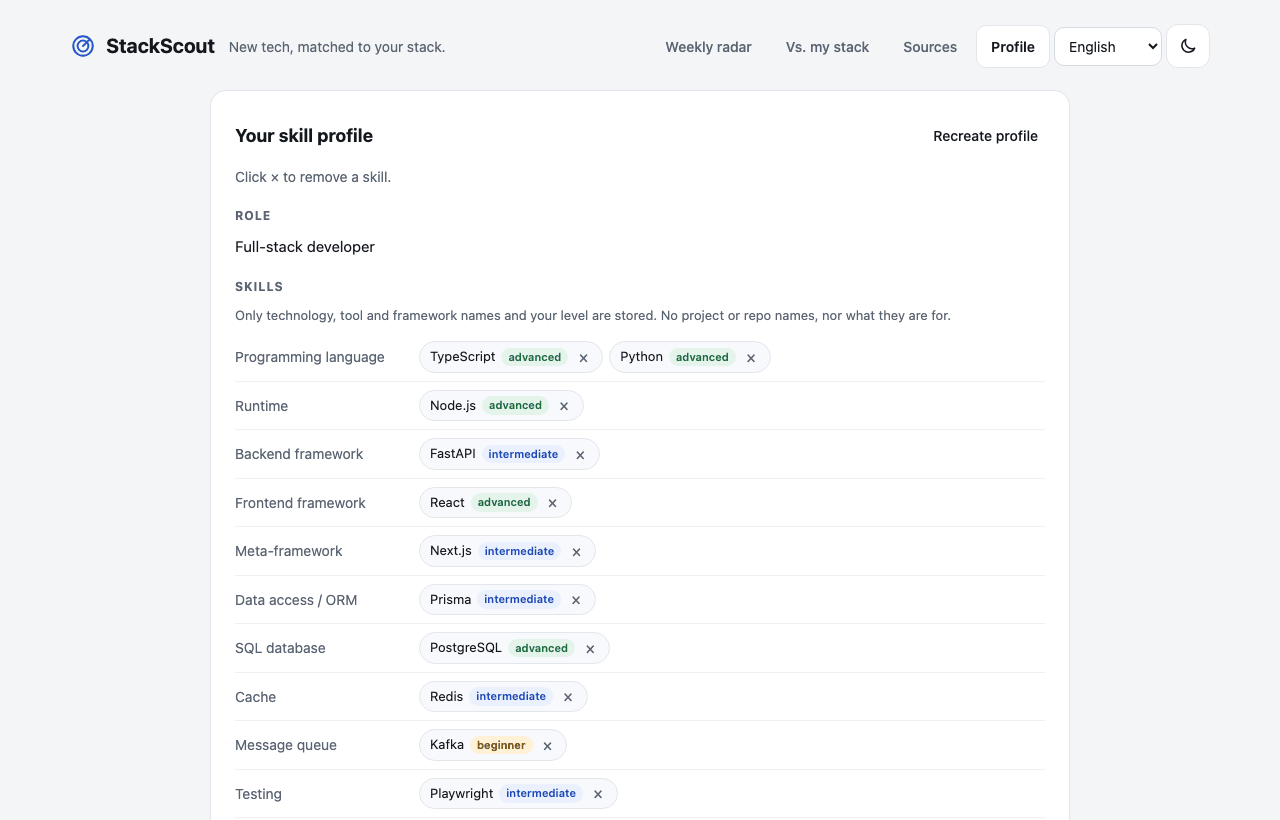
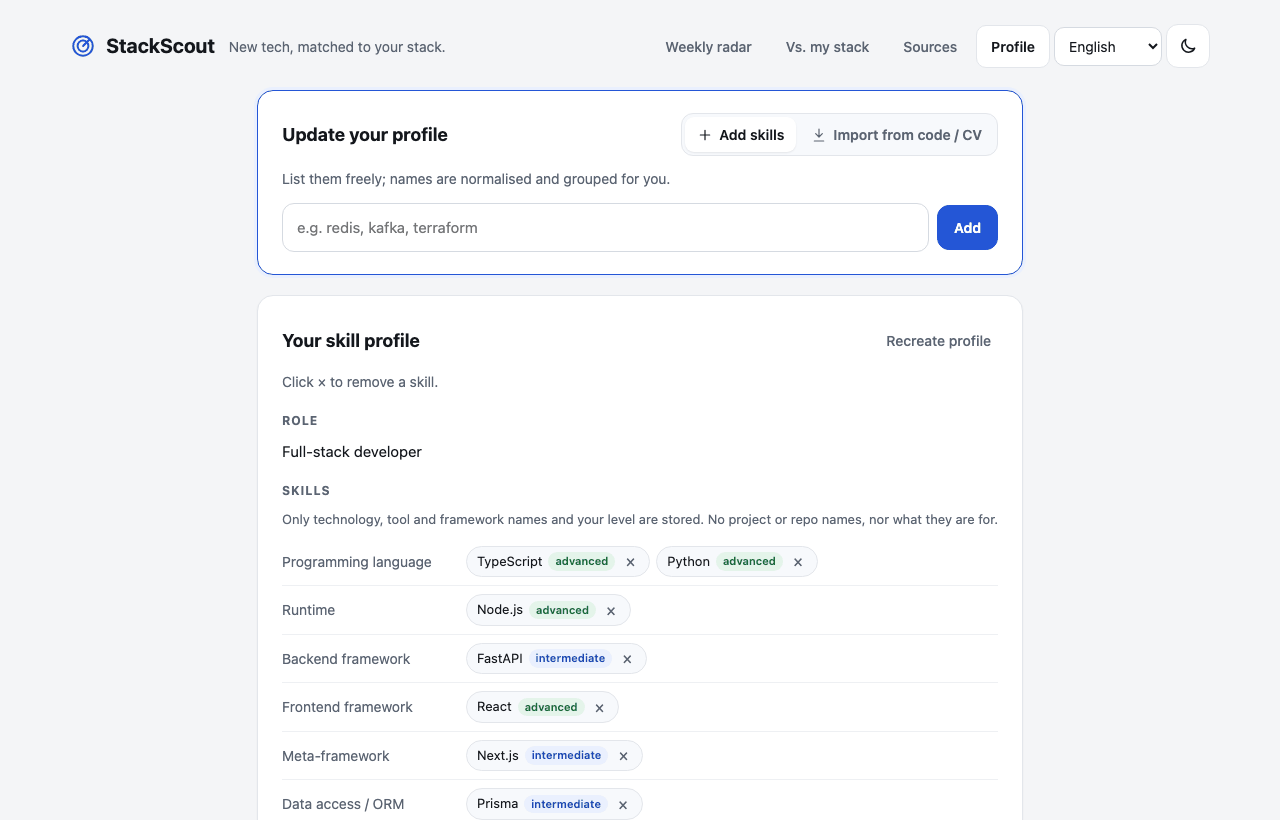
Put adding sources and updating the profile first
Sources tab opens with "Add a source"; Profile tab opens with an "Update your
profile" card that switches between adding skills and importing from code or a
CV. Localised file picker; README screenshots refreshed.

diff --git a/docs/index.html b/docs/index.html
@@ -111,6 +111,15 @@
   .mini { border: 1px solid var(--divider); border-radius: 12px; padding: 14px; }
   .mini p { margin: 6px 0 0; font-size: 14px; color: var(--body); }
   .chip.off { opacity: .5; }
+  .card.update { border-color: var(--accent); box-shadow: 0 0 0 3px var(--accent-soft); }
+  .seg { display: inline-flex; padding: 3px; gap: 3px; border-radius: 12px; background: var(--soft); border: 1px solid var(--border); flex-wrap: wrap; }
+  .seg button { font: inherit; font-size: 14px; font-weight: 600; display: inline-flex; align-items: center; gap: 6px; padding: 7px 12px;
+    border: 0; border-radius: 9px; background: none; color: var(--muted); cursor: pointer; }
+  .seg button[aria-pressed="true"] { background: var(--surface); color: var(--text); box-shadow: 0 1px 2px rgba(0,0,0,.08); }
+  .seg button:focus-visible { outline: 2px solid var(--accent); outline-offset: 1px; }
+  @media (max-width: 640px) { .seg { width: 100%; flex-wrap: nowrap; } .seg button { flex: 1; justify-content: center; padding: 8px 6px; } }
+  .filebtn input { position: absolute; width: 1px; height: 1px; opacity: 0; }
+  .filebtn:focus-within { outline: 2px solid var(--accent); outline-offset: 2px; }
   .demobar { display: flex; flex-wrap: wrap; gap: 6px 16px; align-items: center; justify-content: center; padding: 10px 16px;
     margin: -8px 0 12px; border-radius: 12px; background: var(--accent-soft); color: var(--accent-strong); font-size: 14px; font-weight: 600; }
   .demobar a { color: var(--link); }
@@ -289,7 +298,8 @@ vi: {
   "mk.button": "So với đối thủ", "mk.ready": "So với {n} đối thủ: {names}", "mk.loading": "Đang tìm 3–5 đối thủ mạnh nhất và bài so sánh… (khoảng 1–2 phút)", "mk.queued": "Đang chờ so sánh với các đối thủ…", "mk.kicker": "So với đối thủ mạnh nhất", "mk.pros": "Hơn {rival}", "mk.cons": "Kém {rival}", "mk.pick": "Nên chọn:", "mk.none": "Chưa tìm được bài so sánh có nguồn. Theo dõi tiếp.", "mk.insufficient": "Chưa đủ dữ liệu (dưới 2 nguồn), theo dõi tiếp.", "mk.open": "Xem so sánh {name} với đối thủ",
   "prof.privacy": "Chỉ lưu tên công nghệ, công cụ, framework và mức độ. Không lưu tên dự án, repo hay dự án dùng để làm gì.",
   "notify.title": "Thông báo hằng tuần", "notify.hint": "Bản tin được gửi tự động mỗi tuần qua các kênh bên dưới, theo ngôn ngữ bạn chọn. Kênh được cấu hình trong file .env (xem README).", "notify.none": "Chưa cấu hình kênh nào. Thêm TELEGRAM_BOT_TOKEN, SMTP_HOST, STACKSCOUT_SLACK_WEBHOOK_URL, STACKSCOUT_DISCORD_WEBHOOK_URL hoặc STACKSCOUT_WEBHOOK_URL vào .env rồi khởi động lại.", "notify.test": "Gửi thử bản tin mới nhất", "notify.sending": "Đang gửi…", "notify.sent": "Đã gửi qua {list}", "notify.partial": "Có kênh gửi lỗi: {list}", "ch.telegram": "Telegram", "ch.email": "Email", "ch.slack": "Slack", "ch.discord": "Discord", "ch.webhook": "Webhook",
-  "demo.banner": "Bản demo: dữ liệu mẫu của một lập trình viên giả định, chỉ xem.", "demo.install": "Cài StackScout →", "demo.waitlist": "Muốn bản online? Đăng ký chờ →", "demo.readonly": "Bản demo chỉ xem. Cài StackScout để chạy với stack của bạn."
+  "demo.banner": "Bản demo: dữ liệu mẫu của một lập trình viên giả định, chỉ xem.", "demo.install": "Cài StackScout →", "demo.waitlist": "Muốn bản online? Đăng ký chờ →", "demo.readonly": "Bản demo chỉ xem. Cài StackScout để chạy với stack của bạn.",
+  "upd.title": "Cập nhật hồ sơ", "upd.import": "Nhập từ code / CV"
 },
 en: {
   "app.tagline": "New tech, matched to your stack.",
@@ -373,7 +383,8 @@ en: {
   "mk.button": "Compare with rivals", "mk.ready": "Vs. {n} rivals: {names}", "mk.loading": "Finding the 3–5 strongest rivals and comparisons… (about 1–2 minutes)", "mk.queued": "Waiting to compare with rivals…", "mk.kicker": "Vs. the strongest rivals", "mk.pros": "Better than {rival}", "mk.cons": "Worse than {rival}", "mk.pick": "Which to pick:", "mk.none": "No sourced comparison found yet. Keep watching.", "mk.insufficient": "Not enough data (fewer than 2 sources), keep watching.", "mk.open": "Compare {name} with its rivals",
   "prof.privacy": "Only technology, tool and framework names and your level are stored. No project or repo names, nor what they are for.",
   "notify.title": "Weekly notifications", "notify.hint": "The digest goes out every week on the channels below, in your language. Channels are configured in the .env file (see the README).", "notify.none": "No channel configured yet. Add TELEGRAM_BOT_TOKEN, SMTP_HOST, STACKSCOUT_SLACK_WEBHOOK_URL, STACKSCOUT_DISCORD_WEBHOOK_URL or STACKSCOUT_WEBHOOK_URL to .env and restart.", "notify.test": "Send the latest digest now", "notify.sending": "Sending…", "notify.sent": "Sent on {list}", "notify.partial": "Some channels failed: {list}", "ch.telegram": "Telegram", "ch.email": "Email", "ch.slack": "Slack", "ch.discord": "Discord", "ch.webhook": "Webhook",
-  "demo.banner": "Demo: sample data for a made-up developer, read-only.", "demo.install": "Install StackScout →", "demo.waitlist": "Want it hosted? Join the waitlist →", "demo.readonly": "This demo is read-only. Install StackScout to run it on your stack."
+  "demo.banner": "Demo: sample data for a made-up developer, read-only.", "demo.install": "Install StackScout →", "demo.waitlist": "Want it hosted? Join the waitlist →", "demo.readonly": "This demo is read-only. Install StackScout to run it on your stack.",
+  "upd.title": "Update your profile", "upd.import": "Import from code / CV"
 },
 zh: {
   "app.tagline": "新技术，对照你的技术栈。",
@@ -455,7 +466,8 @@ zh: {
   "mk.button": "与竞品对比", "mk.ready": "与 {n} 个竞品对比：{names}", "mk.loading": "正在查找 3–5 个最强竞品及对比文章…（约 1–2 分钟）", "mk.queued": "等待与竞品对比…", "mk.kicker": "与最强竞品对比", "mk.pros": "优于 {rival}", "mk.cons": "不如 {rival}", "mk.pick": "怎么选：", "mk.none": "暂未找到有来源的对比。继续关注。", "mk.insufficient": "数据不足（少于 2 个来源），继续关注。", "mk.open": "查看 {name} 与竞品的对比",
   "prof.privacy": "只保存技术、工具、框架名称和熟练程度。不保存项目名、仓库名，也不保存项目用途。",
   "notify.title": "每周通知", "notify.hint": "简报每周通过以下渠道自动发送，使用你选择的语言。渠道在 .env 文件中配置（见 README）。", "notify.none": "尚未配置任何渠道。请在 .env 中添加 TELEGRAM_BOT_TOKEN、SMTP_HOST、STACKSCOUT_SLACK_WEBHOOK_URL、STACKSCOUT_DISCORD_WEBHOOK_URL 或 STACKSCOUT_WEBHOOK_URL 后重启。", "notify.test": "立即发送最新简报", "notify.sending": "正在发送…", "notify.sent": "已通过 {list} 发送", "notify.partial": "部分渠道发送失败：{list}", "ch.telegram": "Telegram", "ch.email": "邮件", "ch.slack": "Slack", "ch.discord": "Discord", "ch.webhook": "Webhook",
-  "demo.banner": "演示：虚构开发者的示例数据，只读。", "demo.install": "安装 StackScout →", "demo.waitlist": "想要在线版？加入等候名单 →", "demo.readonly": "演示为只读。安装 StackScout 以用于你的技术栈。"
+  "demo.banner": "演示：虚构开发者的示例数据，只读。", "demo.install": "安装 StackScout →", "demo.waitlist": "想要在线版？加入等候名单 →", "demo.readonly": "演示为只读。安装 StackScout 以用于你的技术栈。",
+  "upd.title": "更新档案", "upd.import": "从代码 / 简历导入"
 },
 ja: {
   "app.tagline": "新しい技術を、あなたのスタックと照らし合わせて。",
@@ -539,7 +551,8 @@ ja: {
   "mk.button": "競合と比較", "mk.ready": "競合 {n} 件と比較：{names}", "mk.loading": "最も強い競合 3〜5 件と比較記事を探しています…（約 1〜2 分）", "mk.queued": "競合との比較を待機中…", "mk.kicker": "最も強い競合との比較", "mk.pros": "{rival} より優れる点", "mk.cons": "{rival} より劣る点", "mk.pick": "選び方：", "mk.none": "出典のある比較がまだ見つかりません。引き続き注目。", "mk.insufficient": "データ不足（出典 2 件未満）。引き続き注目。", "mk.open": "{name} を競合と比較",
   "prof.privacy": "保存するのは技術・ツール・フレームワーク名と習熟度だけです。プロジェクト名やリポジトリ名、用途は保存しません。",
   "notify.title": "毎週の通知", "notify.hint": "ダイジェストは毎週、選んだ言語で下のチャネルに自動送信されます。チャネルは .env ファイルで設定します（README 参照）。", "notify.none": "チャネルが未設定です。.env に TELEGRAM_BOT_TOKEN、SMTP_HOST、STACKSCOUT_SLACK_WEBHOOK_URL、STACKSCOUT_DISCORD_WEBHOOK_URL、STACKSCOUT_WEBHOOK_URL のいずれかを追加して再起動してください。", "notify.test": "最新のダイジェストを今すぐ送信", "notify.sending": "送信中…", "notify.sent": "{list} に送信しました", "notify.partial": "一部のチャネルで失敗しました：{list}", "ch.telegram": "Telegram", "ch.email": "メール", "ch.slack": "Slack", "ch.discord": "Discord", "ch.webhook": "Webhook",
-  "demo.banner": "デモ：架空の開発者のサンプルデータ（閲覧のみ）。", "demo.install": "StackScout をインストール →", "demo.waitlist": "ホスト版が欲しい？ウェイトリストへ →", "demo.readonly": "このデモは閲覧専用です。あなたのスタックで使うには StackScout をインストールしてください。"
+  "demo.banner": "デモ：架空の開発者のサンプルデータ（閲覧のみ）。", "demo.install": "StackScout をインストール →", "demo.waitlist": "ホスト版が欲しい？ウェイトリストへ →", "demo.readonly": "このデモは閲覧専用です。あなたのスタックで使うには StackScout をインストールしてください。",
+  "upd.title": "プロフィールを更新", "upd.import": "コード / 履歴書から取り込む"
 },
 ko: {
   "app.tagline": "새로운 기술, 당신의 스택과 비교해서.",
@@ -623,7 +636,8 @@ ko: {
   "mk.button": "경쟁 제품과 비교", "mk.ready": "경쟁 제품 {n}개와 비교: {names}", "mk.loading": "가장 강한 경쟁 제품 3~5개와 비교 자료를 찾는 중… (약 1~2분)", "mk.queued": "경쟁 제품과 비교 대기 중…", "mk.kicker": "가장 강한 경쟁 제품과 비교", "mk.pros": "{rival}보다 나은 점", "mk.cons": "{rival}보다 부족한 점", "mk.pick": "선택 기준:", "mk.none": "출처가 있는 비교를 아직 찾지 못했습니다. 계속 지켜보세요.", "mk.insufficient": "데이터 부족(출처 2개 미만), 계속 지켜보세요.", "mk.open": "{name}을(를) 경쟁 제품과 비교",
   "prof.privacy": "기술·도구·프레임워크 이름과 숙련도만 저장합니다. 프로젝트·저장소 이름이나 용도는 저장하지 않습니다.",
   "notify.title": "주간 알림", "notify.hint": "다이제스트는 매주 선택한 언어로 아래 채널에 자동 발송됩니다. 채널은 .env 파일에서 설정합니다(README 참고).", "notify.none": "설정된 채널이 없습니다. .env에 TELEGRAM_BOT_TOKEN, SMTP_HOST, STACKSCOUT_SLACK_WEBHOOK_URL, STACKSCOUT_DISCORD_WEBHOOK_URL 또는 STACKSCOUT_WEBHOOK_URL을 추가하고 다시 시작하세요.", "notify.test": "최신 다이제스트 지금 보내기", "notify.sending": "보내는 중…", "notify.sent": "{list}(으)로 보냈습니다", "notify.partial": "일부 채널 전송 실패: {list}", "ch.telegram": "Telegram", "ch.email": "이메일", "ch.slack": "Slack", "ch.discord": "Discord", "ch.webhook": "Webhook",
-  "demo.banner": "데모: 가상의 개발자 샘플 데이터(읽기 전용).", "demo.install": "StackScout 설치 →", "demo.waitlist": "호스팅 버전이 필요하신가요? 대기자 등록 →", "demo.readonly": "이 데모는 읽기 전용입니다. 내 스택에서 쓰려면 StackScout를 설치하세요."
+  "demo.banner": "데모: 가상의 개발자 샘플 데이터(읽기 전용).", "demo.install": "StackScout 설치 →", "demo.waitlist": "호스팅 버전이 필요하신가요? 대기자 등록 →", "demo.readonly": "이 데모는 읽기 전용입니다. 내 스택에서 쓰려면 StackScout를 설치하세요.",
+  "upd.title": "프로필 업데이트", "upd.import": "코드 / 이력서에서 가져오기"
 }
 };
 
@@ -940,9 +954,9 @@ function personCard() {
     h("div", { class: "row" }, h("span", { class: "spacer" }), h("button", { class: "btn primary", onclick: save, disabled: state.busy === "person" }, t("common.save"))));
 }
 
-function addCard() {
-  if (state.busy === "add") return h("div", { class: "card" }, loading(t("add.normalizing")));
-  if (state.addPreview) return h("div", { class: "card" }, h("h2", {}, t("add.previewTitle")),
+function addBody() {
+  if (state.busy === "add") return loading(t("add.normalizing"));
+  if (state.addPreview) return h("div", {}, h("h3", { style: "margin:0" }, t("add.previewTitle")),
     h("p", { class: "hint", style: "margin-top:4px" }, t("add.previewHint")), skillGroups(state.addPreview, null),
     h("div", { class: "row" }, h("span", { class: "spacer" }),
       h("button", { class: "btn", onclick: () => { state.addPreview = null; render(); } }, t("common.cancel")),
@@ -960,16 +974,16 @@ function addCard() {
     });
   };
   onEnter(input, submit);
-  return h("div", { class: "card" }, h("h2", {}, t("add.title")), h("p", { class: "hint", style: "margin-top:4px" }, t("add.hint")),
+  return h("div", {}, h("p", { class: "hint" }, t("add.hint")),
     h("div", { class: "row", style: "margin-top:0" }, h("div", { style: "flex:1;min-width:200px" }, input),
       h("button", { class: "btn primary", onclick: submit }, t("common.add"))));
 }
 
-function importCard() {
-  if (state.busy === "imp") return h("div", { class: "card" }, loading(t("imp.reading")));
+function importBody() {
+  if (state.busy === "imp") return loading(t("imp.reading"));
   if (state.importPreview) {
     const { profile, added } = state.importPreview;
-    return h("div", { class: "card" }, h("h2", {}, t("imp.previewTitle")),
+    return h("div", {}, h("h3", { style: "margin:0" }, t("imp.previewTitle")),
       h("p", { class: "hint", style: "margin-top:4px" }, added.length ? t("imp.adds", { n: added.length }) : t("imp.noNew")),
       added.length > 0 && skillGroups(added, null),
       h("div", { class: "row" }, h("span", { class: "spacer" }),
@@ -980,8 +994,13 @@ function importCard() {
         }) }, t("imp.merge"))));
   }
   const box = h("textarea", { rows: 5, maxlength: 200000, "aria-label": "YAML", placeholder: t("imp.placeholder") });
-  const file = h("input", { type: "file", accept: ".yaml,.yml,.txt", "aria-label": t("imp.file") });
-  file.addEventListener("change", async () => { if (file.files[0]) box.value = await file.files[0].text(); });
+  // The native file input shows the browser's own words ("Choose File"): use a labelled button instead.
+  const file = h("input", { type: "file", accept: ".yaml,.yml,.txt" });
+  const fileName = h("span", { class: "muted", style: "font-size:13px" });
+  file.addEventListener("change", async () => {
+    if (file.files[0]) { box.value = await file.files[0].text(); fileName.textContent = file.files[0].name; }
+  });
+  const fileBtn = h("label", { class: "btn sm filebtn" }, file, svg('<path d="M12 3v12M7 10l5 5 5-5"/><path d="M5 21h14"/>', 15), t("imp.file"));
   const copyPrompt = () => run(null, async () => {
     const { prompt } = await api("GET", "/api/profile/import/prompt");
     try { await navigator.clipboard.writeText(prompt); toast(t("imp.copied")); }
@@ -991,13 +1010,27 @@ function importCard() {
     if (!box.value.trim()) { box.focus(); return; }
     run("imp", async () => { state.importPreview = await api("POST", "/api/profile/import/preview", { yaml: box.value }); });
   };
-  return h("div", { class: "card" }, h("h2", {}, t("imp.title")), h("p", { class: "hint", style: "margin-top:4px" }, t("imp.hint")),
+  return h("div", {}, h("p", { class: "hint" }, t("imp.hint")),
     h("div", { class: "row", style: "margin:0 0 12px" }, h("button", { class: "btn sm", onclick: copyPrompt }, t("imp.copy"))),
-    box, h("div", { class: "row" }, file, h("span", { class: "spacer" }), h("button", { class: "btn primary", onclick: preview }, t("imp.preview"))));
+    box, h("div", { class: "row" }, fileBtn, fileName, h("span", { class: "spacer" }), h("button", { class: "btn primary", onclick: preview }, t("imp.preview"))));
+}
+
+// First thing on the Profile tab: the two ways to update it, one click apart.
+function updateCard() {
+  const mode = state.updateMode || "add";
+  const seg = (id, icon, label) => h("button", { "aria-pressed": String(mode === id),
+    onclick: () => { state.updateMode = id; render(); } }, svg(icon, 16), label);
+  return h("div", { class: "card update" },
+    h("div", { class: "row", style: "margin:0 0 12px;align-items:center" }, h("h2", {}, t("upd.title")), h("span", { class: "spacer" }),
+      h("div", { class: "seg", role: "group", "aria-label": t("upd.title") },
+        seg("add", '<path d="M12 5v14M5 12h14"/>', t("add.title")),
+        seg("import", '<path d="M12 3v12M7 10l5 5 5-5"/><path d="M5 21h14"/>', t("upd.import")))),
+    mode === "import" ? importBody() : addBody());
 }
 
 function profileTab() {
   return [
+    updateCard(),
     h("div", { class: "card" },
       h("div", { class: "row", style: "margin:0 0 8px" },
         h("h2", {}, t("prof.title")), h("span", { class: "spacer" }),
@@ -1006,7 +1039,7 @@ function profileTab() {
              h("button", { class: "btn danger", onclick: () => { state.confirmReset = false; state.view = "wizard"; state.step = 0; render(); } }, t("prof.recreateConfirm"))]
           : h("button", { class: "btn link", onclick: () => { state.confirmReset = true; render(); } }, t("prof.recreate"))),
       h("p", { class: "hint" }, t("prof.hint")), profileBody(state.profile, removeSkill)),
-    personCard(), addCard(), importCard(),
+    personCard(),
   ];
 }
 
@@ -1049,6 +1082,11 @@ function sourcesTab() {
   };
   onEnter(input, add);
   return [
+    // Adding a source comes first: it is what people come to this tab for.
+    h("div", { class: "card update" }, h("h2", {}, t("src.addTitle")), h("p", { class: "hint", style: "margin-top:4px" }, t("src.addHint")),
+      state.busy === "src" ? loading(t("src.finding"))
+        : h("div", { class: "row", style: "margin-top:0" }, h("div", { style: "flex:1;min-width:200px" }, input),
+            h("button", { class: "btn primary", onclick: add }, t("common.add")))),
     h("div", { class: "card" },
       h("div", { class: "row", style: "margin:0 0 4px" }, h("h2", {}, t("src.title")), h("span", { class: "spacer" }),
         state.confirmSourceReset
@@ -1060,10 +1098,6 @@ function sourcesTab() {
       h("p", { class: "hint" }, `${t("src.onCount", { n: on.length })} ${t("src.onHint")}`),
       on.length ? on.map(row) : h("p", { class: "muted" }, t("src.none"))),
     off.length > 0 && h("div", { class: "card" }, h("h2", {}, t("src.offTitle")), h("p", { class: "hint", style: "margin-top:4px" }, t("src.offHint")), off.map(row)),
-    h("div", { class: "card" }, h("h2", {}, t("src.addTitle")), h("p", { class: "hint", style: "margin-top:4px" }, t("src.addHint")),
-      state.busy === "src" ? loading(t("src.finding"))
-        : h("div", { class: "row", style: "margin-top:0" }, h("div", { style: "flex:1;min-width:200px" }, input),
-            h("button", { class: "btn primary", onclick: add }, t("common.add")))),
     notifyCard(),
   ];
 }

diff --git a/stackscout/static/index.html b/stackscout/static/index.html
@@ -111,6 +111,15 @@
   .mini { border: 1px solid var(--divider); border-radius: 12px; padding: 14px; }
   .mini p { margin: 6px 0 0; font-size: 14px; color: var(--body); }
   .chip.off { opacity: .5; }
+  .card.update { border-color: var(--accent); box-shadow: 0 0 0 3px var(--accent-soft); }
+  .seg { display: inline-flex; padding: 3px; gap: 3px; border-radius: 12px; background: var(--soft); border: 1px solid var(--border); flex-wrap: wrap; }
+  .seg button { font: inherit; font-size: 14px; font-weight: 600; display: inline-flex; align-items: center; gap: 6px; padding: 7px 12px;
+    border: 0; border-radius: 9px; background: none; color: var(--muted); cursor: pointer; }
+  .seg button[aria-pressed="true"] { background: var(--surface); color: var(--text); box-shadow: 0 1px 2px rgba(0,0,0,.08); }
+  .seg button:focus-visible { outline: 2px solid var(--accent); outline-offset: 1px; }
+  @media (max-width: 640px) { .seg { width: 100%; flex-wrap: nowrap; } .seg button { flex: 1; justify-content: center; padding: 8px 6px; } }
+  .filebtn input { position: absolute; width: 1px; height: 1px; opacity: 0; }
+  .filebtn:focus-within { outline: 2px solid var(--accent); outline-offset: 2px; }
   .demobar { display: flex; flex-wrap: wrap; gap: 6px 16px; align-items: center; justify-content: center; padding: 10px 16px;
     margin: -8px 0 12px; border-radius: 12px; background: var(--accent-soft); color: var(--accent-strong); font-size: 14px; font-weight: 600; }
   .demobar a { color: var(--link); }
@@ -288,7 +297,8 @@ vi: {
   "mk.button": "So với đối thủ", "mk.ready": "So với {n} đối thủ: {names}", "mk.loading": "Đang tìm 3–5 đối thủ mạnh nhất và bài so sánh… (khoảng 1–2 phút)", "mk.queued": "Đang chờ so sánh với các đối thủ…", "mk.kicker": "So với đối thủ mạnh nhất", "mk.pros": "Hơn {rival}", "mk.cons": "Kém {rival}", "mk.pick": "Nên chọn:", "mk.none": "Chưa tìm được bài so sánh có nguồn. Theo dõi tiếp.", "mk.insufficient": "Chưa đủ dữ liệu (dưới 2 nguồn), theo dõi tiếp.", "mk.open": "Xem so sánh {name} với đối thủ",
   "prof.privacy": "Chỉ lưu tên công nghệ, công cụ, framework và mức độ. Không lưu tên dự án, repo hay dự án dùng để làm gì.",
   "notify.title": "Thông báo hằng tuần", "notify.hint": "Bản tin được gửi tự động mỗi tuần qua các kênh bên dưới, theo ngôn ngữ bạn chọn. Kênh được cấu hình trong file .env (xem README).", "notify.none": "Chưa cấu hình kênh nào. Thêm TELEGRAM_BOT_TOKEN, SMTP_HOST, STACKSCOUT_SLACK_WEBHOOK_URL, STACKSCOUT_DISCORD_WEBHOOK_URL hoặc STACKSCOUT_WEBHOOK_URL vào .env rồi khởi động lại.", "notify.test": "Gửi thử bản tin mới nhất", "notify.sending": "Đang gửi…", "notify.sent": "Đã gửi qua {list}", "notify.partial": "Có kênh gửi lỗi: {list}", "ch.telegram": "Telegram", "ch.email": "Email", "ch.slack": "Slack", "ch.discord": "Discord", "ch.webhook": "Webhook",
-  "demo.banner": "Bản demo: dữ liệu mẫu của một lập trình viên giả định, chỉ xem.", "demo.install": "Cài StackScout →", "demo.waitlist": "Muốn bản online? Đăng ký chờ →", "demo.readonly": "Bản demo chỉ xem. Cài StackScout để chạy với stack của bạn."
+  "demo.banner": "Bản demo: dữ liệu mẫu của một lập trình viên giả định, chỉ xem.", "demo.install": "Cài StackScout →", "demo.waitlist": "Muốn bản online? Đăng ký chờ →", "demo.readonly": "Bản demo chỉ xem. Cài StackScout để chạy với stack của bạn.",
+  "upd.title": "Cập nhật hồ sơ", "upd.import": "Nhập từ code / CV"
 },
 en: {
   "app.tagline": "New tech, matched to your stack.",
@@ -372,7 +382,8 @@ en: {
   "mk.button": "Compare with rivals", "mk.ready": "Vs. {n} rivals: {names}", "mk.loading": "Finding the 3–5 strongest rivals and comparisons… (about 1–2 minutes)", "mk.queued": "Waiting to compare with rivals…", "mk.kicker": "Vs. the strongest rivals", "mk.pros": "Better than {rival}", "mk.cons": "Worse than {rival}", "mk.pick": "Which to pick:", "mk.none": "No sourced comparison found yet. Keep watching.", "mk.insufficient": "Not enough data (fewer than 2 sources), keep watching.", "mk.open": "Compare {name} with its rivals",
   "prof.privacy": "Only technology, tool and framework names and your level are stored. No project or repo names, nor what they are for.",
   "notify.title": "Weekly notifications", "notify.hint": "The digest goes out every week on the channels below, in your language. Channels are configured in the .env file (see the README).", "notify.none": "No channel configured yet. Add TELEGRAM_BOT_TOKEN, SMTP_HOST, STACKSCOUT_SLACK_WEBHOOK_URL, STACKSCOUT_DISCORD_WEBHOOK_URL or STACKSCOUT_WEBHOOK_URL to .env and restart.", "notify.test": "Send the latest digest now", "notify.sending": "Sending…", "notify.sent": "Sent on {list}", "notify.partial": "Some channels failed: {list}", "ch.telegram": "Telegram", "ch.email": "Email", "ch.slack": "Slack", "ch.discord": "Discord", "ch.webhook": "Webhook",
-  "demo.banner": "Demo: sample data for a made-up developer, read-only.", "demo.install": "Install StackScout →", "demo.waitlist": "Want it hosted? Join the waitlist →", "demo.readonly": "This demo is read-only. Install StackScout to run it on your stack."
+  "demo.banner": "Demo: sample data for a made-up developer, read-only.", "demo.install": "Install StackScout →", "demo.waitlist": "Want it hosted? Join the waitlist →", "demo.readonly": "This demo is read-only. Install StackScout to run it on your stack.",
+  "upd.title": "Update your profile", "upd.import": "Import from code / CV"
 },
 zh: {
   "app.tagline": "新技术，对照你的技术栈。",
@@ -454,7 +465,8 @@ zh: {
   "mk.button": "与竞品对比", "mk.ready": "与 {n} 个竞品对比：{names}", "mk.loading": "正在查找 3–5 个最强竞品及对比文章…（约 1–2 分钟）", "mk.queued": "等待与竞品对比…", "mk.kicker": "与最强竞品对比", "mk.pros": "优于 {rival}", "mk.cons": "不如 {rival}", "mk.pick": "怎么选：", "mk.none": "暂未找到有来源的对比。继续关注。", "mk.insufficient": "数据不足（少于 2 个来源），继续关注。", "mk.open": "查看 {name} 与竞品的对比",
   "prof.privacy": "只保存技术、工具、框架名称和熟练程度。不保存项目名、仓库名，也不保存项目用途。",
   "notify.title": "每周通知", "notify.hint": "简报每周通过以下渠道自动发送，使用你选择的语言。渠道在 .env 文件中配置（见 README）。", "notify.none": "尚未配置任何渠道。请在 .env 中添加 TELEGRAM_BOT_TOKEN、SMTP_HOST、STACKSCOUT_SLACK_WEBHOOK_URL、STACKSCOUT_DISCORD_WEBHOOK_URL 或 STACKSCOUT_WEBHOOK_URL 后重启。", "notify.test": "立即发送最新简报", "notify.sending": "正在发送…", "notify.sent": "已通过 {list} 发送", "notify.partial": "部分渠道发送失败：{list}", "ch.telegram": "Telegram", "ch.email": "邮件", "ch.slack": "Slack", "ch.discord": "Discord", "ch.webhook": "Webhook",
-  "demo.banner": "演示：虚构开发者的示例数据，只读。", "demo.install": "安装 StackScout →", "demo.waitlist": "想要在线版？加入等候名单 →", "demo.readonly": "演示为只读。安装 StackScout 以用于你的技术栈。"
+  "demo.banner": "演示：虚构开发者的示例数据，只读。", "demo.install": "安装 StackScout →", "demo.waitlist": "想要在线版？加入等候名单 →", "demo.readonly": "演示为只读。安装 StackScout 以用于你的技术栈。",
+  "upd.title": "更新档案", "upd.import": "从代码 / 简历导入"
 },
 ja: {
   "app.tagline": "新しい技術を、あなたのスタックと照らし合わせて。",
@@ -538,7 +550,8 @@ ja: {
   "mk.button": "競合と比較", "mk.ready": "競合 {n} 件と比較：{names}", "mk.loading": "最も強い競合 3〜5 件と比較記事を探しています…（約 1〜2 分）", "mk.queued": "競合との比較を待機中…", "mk.kicker": "最も強い競合との比較", "mk.pros": "{rival} より優れる点", "mk.cons": "{rival} より劣る点", "mk.pick": "選び方：", "mk.none": "出典のある比較がまだ見つかりません。引き続き注目。", "mk.insufficient": "データ不足（出典 2 件未満）。引き続き注目。", "mk.open": "{name} を競合と比較",
   "prof.privacy": "保存するのは技術・ツール・フレームワーク名と習熟度だけです。プロジェクト名やリポジトリ名、用途は保存しません。",
   "notify.title": "毎週の通知", "notify.hint": "ダイジェストは毎週、選んだ言語で下のチャネルに自動送信されます。チャネルは .env ファイルで設定します（README 参照）。", "notify.none": "チャネルが未設定です。.env に TELEGRAM_BOT_TOKEN、SMTP_HOST、STACKSCOUT_SLACK_WEBHOOK_URL、STACKSCOUT_DISCORD_WEBHOOK_URL、STACKSCOUT_WEBHOOK_URL のいずれかを追加して再起動してください。", "notify.test": "最新のダイジェストを今すぐ送信", "notify.sending": "送信中…", "notify.sent": "{list} に送信しました", "notify.partial": "一部のチャネルで失敗しました：{list}", "ch.telegram": "Telegram", "ch.email": "メール", "ch.slack": "Slack", "ch.discord": "Discord", "ch.webhook": "Webhook",
-  "demo.banner": "デモ：架空の開発者のサンプルデータ（閲覧のみ）。", "demo.install": "StackScout をインストール →", "demo.waitlist": "ホスト版が欲しい？ウェイトリストへ →", "demo.readonly": "このデモは閲覧専用です。あなたのスタックで使うには StackScout をインストールしてください。"
+  "demo.banner": "デモ：架空の開発者のサンプルデータ（閲覧のみ）。", "demo.install": "StackScout をインストール →", "demo.waitlist": "ホスト版が欲しい？ウェイトリストへ →", "demo.readonly": "このデモは閲覧専用です。あなたのスタックで使うには StackScout をインストールしてください。",
+  "upd.title": "プロフィールを更新", "upd.import": "コード / 履歴書から取り込む"
 },
 ko: {
   "app.tagline": "새로운 기술, 당신의 스택과 비교해서.",
@@ -622,7 +635,8 @@ ko: {
   "mk.button": "경쟁 제품과 비교", "mk.ready": "경쟁 제품 {n}개와 비교: {names}", "mk.loading": "가장 강한 경쟁 제품 3~5개와 비교 자료를 찾는 중… (약 1~2분)", "mk.queued": "경쟁 제품과 비교 대기 중…", "mk.kicker": "가장 강한 경쟁 제품과 비교", "mk.pros": "{rival}보다 나은 점", "mk.cons": "{rival}보다 부족한 점", "mk.pick": "선택 기준:", "mk.none": "출처가 있는 비교를 아직 찾지 못했습니다. 계속 지켜보세요.", "mk.insufficient": "데이터 부족(출처 2개 미만), 계속 지켜보세요.", "mk.open": "{name}을(를) 경쟁 제품과 비교",
   "prof.privacy": "기술·도구·프레임워크 이름과 숙련도만 저장합니다. 프로젝트·저장소 이름이나 용도는 저장하지 않습니다.",
   "notify.title": "주간 알림", "notify.hint": "다이제스트는 매주 선택한 언어로 아래 채널에 자동 발송됩니다. 채널은 .env 파일에서 설정합니다(README 참고).", "notify.none": "설정된 채널이 없습니다. .env에 TELEGRAM_BOT_TOKEN, SMTP_HOST, STACKSCOUT_SLACK_WEBHOOK_URL, STACKSCOUT_DISCORD_WEBHOOK_URL 또는 STACKSCOUT_WEBHOOK_URL을 추가하고 다시 시작하세요.", "notify.test": "최신 다이제스트 지금 보내기", "notify.sending": "보내는 중…", "notify.sent": "{list}(으)로 보냈습니다", "notify.partial": "일부 채널 전송 실패: {list}", "ch.telegram": "Telegram", "ch.email": "이메일", "ch.slack": "Slack", "ch.discord": "Discord", "ch.webhook": "Webhook",
-  "demo.banner": "데모: 가상의 개발자 샘플 데이터(읽기 전용).", "demo.install": "StackScout 설치 →", "demo.waitlist": "호스팅 버전이 필요하신가요? 대기자 등록 →", "demo.readonly": "이 데모는 읽기 전용입니다. 내 스택에서 쓰려면 StackScout를 설치하세요."
+  "demo.banner": "데모: 가상의 개발자 샘플 데이터(읽기 전용).", "demo.install": "StackScout 설치 →", "demo.waitlist": "호스팅 버전이 필요하신가요? 대기자 등록 →", "demo.readonly": "이 데모는 읽기 전용입니다. 내 스택에서 쓰려면 StackScout를 설치하세요.",
+  "upd.title": "프로필 업데이트", "upd.import": "코드 / 이력서에서 가져오기"
 }
 };
 
@@ -939,9 +953,9 @@ function personCard() {
     h("div", { class: "row" }, h("span", { class: "spacer" }), h("button", { class: "btn primary", onclick: save, disabled: state.busy === "person" }, t("common.save"))));
 }
 
-function addCard() {
-  if (state.busy === "add") return h("div", { class: "card" }, loading(t("add.normalizing")));
-  if (state.addPreview) return h("div", { class: "card" }, h("h2", {}, t("add.previewTitle")),
+function addBody() {
+  if (state.busy === "add") return loading(t("add.normalizing"));
+  if (state.addPreview) return h("div", {}, h("h3", { style: "margin:0" }, t("add.previewTitle")),
     h("p", { class: "hint", style: "margin-top:4px" }, t("add.previewHint")), skillGroups(state.addPreview, null),
     h("div", { class: "row" }, h("span", { class: "spacer" }),
       h("button", { class: "btn", onclick: () => { state.addPreview = null; render(); } }, t("common.cancel")),
@@ -959,16 +973,16 @@ function addCard() {
     });
   };
   onEnter(input, submit);
-  return h("div", { class: "card" }, h("h2", {}, t("add.title")), h("p", { class: "hint", style: "margin-top:4px" }, t("add.hint")),
+  return h("div", {}, h("p", { class: "hint" }, t("add.hint")),
     h("div", { class: "row", style: "margin-top:0" }, h("div", { style: "flex:1;min-width:200px" }, input),
       h("button", { class: "btn primary", onclick: submit }, t("common.add"))));
 }
 
-function importCard() {
-  if (state.busy === "imp") return h("div", { class: "card" }, loading(t("imp.reading")));
+function importBody() {
+  if (state.busy === "imp") return loading(t("imp.reading"));
   if (state.importPreview) {
     const { profile, added } = state.importPreview;
-    return h("div", { class: "card" }, h("h2", {}, t("imp.previewTitle")),
+    return h("div", {}, h("h3", { style: "margin:0" }, t("imp.previewTitle")),
       h("p", { class: "hint", style: "margin-top:4px" }, added.length ? t("imp.adds", { n: added.length }) : t("imp.noNew")),
       added.length > 0 && skillGroups(added, null),
       h("div", { class: "row" }, h("span", { class: "spacer" }),
@@ -979,8 +993,13 @@ function importCard() {
         }) }, t("imp.merge"))));
   }
   const box = h("textarea", { rows: 5, maxlength: 200000, "aria-label": "YAML", placeholder: t("imp.placeholder") });
-  const file = h("input", { type: "file", accept: ".yaml,.yml,.txt", "aria-label": t("imp.file") });
-  file.addEventListener("change", async () => { if (file.files[0]) box.value = await file.files[0].text(); });
+  // The native file input shows the browser's own words ("Choose File"): use a labelled button instead.
+  const file = h("input", { type: "file", accept: ".yaml,.yml,.txt" });
+  const fileName = h("span", { class: "muted", style: "font-size:13px" });
+  file.addEventListener("change", async () => {
+    if (file.files[0]) { box.value = await file.files[0].text(); fileName.textContent = file.files[0].name; }
+  });
+  const fileBtn = h("label", { class: "btn sm filebtn" }, file, svg('<path d="M12 3v12M7 10l5 5 5-5"/><path d="M5 21h14"/>', 15), t("imp.file"));
   const copyPrompt = () => run(null, async () => {
     const { prompt } = await api("GET", "/api/profile/import/prompt");
     try { await navigator.clipboard.writeText(prompt); toast(t("imp.copied")); }
@@ -990,13 +1009,27 @@ function importCard() {
     if (!box.value.trim()) { box.focus(); return; }
     run("imp", async () => { state.importPreview = await api("POST", "/api/profile/import/preview", { yaml: box.value }); });
   };
-  return h("div", { class: "card" }, h("h2", {}, t("imp.title")), h("p", { class: "hint", style: "margin-top:4px" }, t("imp.hint")),
+  return h("div", {}, h("p", { class: "hint" }, t("imp.hint")),
     h("div", { class: "row", style: "margin:0 0 12px" }, h("button", { class: "btn sm", onclick: copyPrompt }, t("imp.copy"))),
-    box, h("div", { class: "row" }, file, h("span", { class: "spacer" }), h("button", { class: "btn primary", onclick: preview }, t("imp.preview"))));
+    box, h("div", { class: "row" }, fileBtn, fileName, h("span", { class: "spacer" }), h("button", { class: "btn primary", onclick: preview }, t("imp.preview"))));
+}
+
+// First thing on the Profile tab: the two ways to update it, one click apart.
+function updateCard() {
+  const mode = state.updateMode || "add";
+  const seg = (id, icon, label) => h("button", { "aria-pressed": String(mode === id),
+    onclick: () => { state.updateMode = id; render(); } }, svg(icon, 16), label);
+  return h("div", { class: "card update" },
+    h("div", { class: "row", style: "margin:0 0 12px;align-items:center" }, h("h2", {}, t("upd.title")), h("span", { class: "spacer" }),
+      h("div", { class: "seg", role: "group", "aria-label": t("upd.title") },
+        seg("add", '<path d="M12 5v14M5 12h14"/>', t("add.title")),
+        seg("import", '<path d="M12 3v12M7 10l5 5 5-5"/><path d="M5 21h14"/>', t("upd.import")))),
+    mode === "import" ? importBody() : addBody());
 }
 
 function profileTab() {
   return [
+    updateCard(),
     h("div", { class: "card" },
       h("div", { class: "row", style: "margin:0 0 8px" },
         h("h2", {}, t("prof.title")), h("span", { class: "spacer" }),
@@ -1005,7 +1038,7 @@ function profileTab() {
              h("button", { class: "btn danger", onclick: () => { state.confirmReset = false; state.view = "wizard"; state.step = 0; render(); } }, t("prof.recreateConfirm"))]
           : h("button", { class: "btn link", onclick: () => { state.confirmReset = true; render(); } }, t("prof.recreate"))),
       h("p", { class: "hint" }, t("prof.hint")), profileBody(state.profile, removeSkill)),
-    personCard(), addCard(), importCard(),
+    personCard(),
   ];
 }
 
@@ -1048,6 +1081,11 @@ function sourcesTab() {
   };
   onEnter(input, add);
   return [
+    // Adding a source comes first: it is what people come to this tab for.
+    h("div", { class: "card update" }, h("h2", {}, t("src.addTitle")), h("p", { class: "hint", style: "margin-top:4px" }, t("src.addHint")),
+      state.busy === "src" ? loading(t("src.finding"))
+        : h("div", { class: "row", style: "margin-top:0" }, h("div", { style: "flex:1;min-width:200px" }, input),
+            h("button", { class: "btn primary", onclick: add }, t("common.add")))),
     h("div", { class: "card" },
       h("div", { class: "row", style: "margin:0 0 4px" }, h("h2", {}, t("src.title")), h("span", { class: "spacer" }),
         state.confirmSourceReset
@@ -1059,10 +1097,6 @@ function sourcesTab() {
       h("p", { class: "hint" }, `${t("src.onCount", { n: on.length })} ${t("src.onHint")}`),
       on.length ? on.map(row) : h("p", { class: "muted" }, t("src.none"))),
     off.length > 0 && h("div", { class: "card" }, h("h2", {}, t("src.offTitle")), h("p", { class: "hint", style: "margin-top:4px" }, t("src.offHint")), off.map(row)),
-    h("div", { class: "card" }, h("h2", {}, t("src.addTitle")), h("p", { class: "hint", style: "margin-top:4px" }, t("src.addHint")),
-      state.busy === "src" ? loading(t("src.finding"))
-        : h("div", { class: "row", style: "margin-top:0" }, h("div", { style: "flex:1;min-width:200px" }, input),
-            h("button", { class: "btn primary", onclick: add }, t("common.add")))),
     notifyCard(),
   ];
 }
